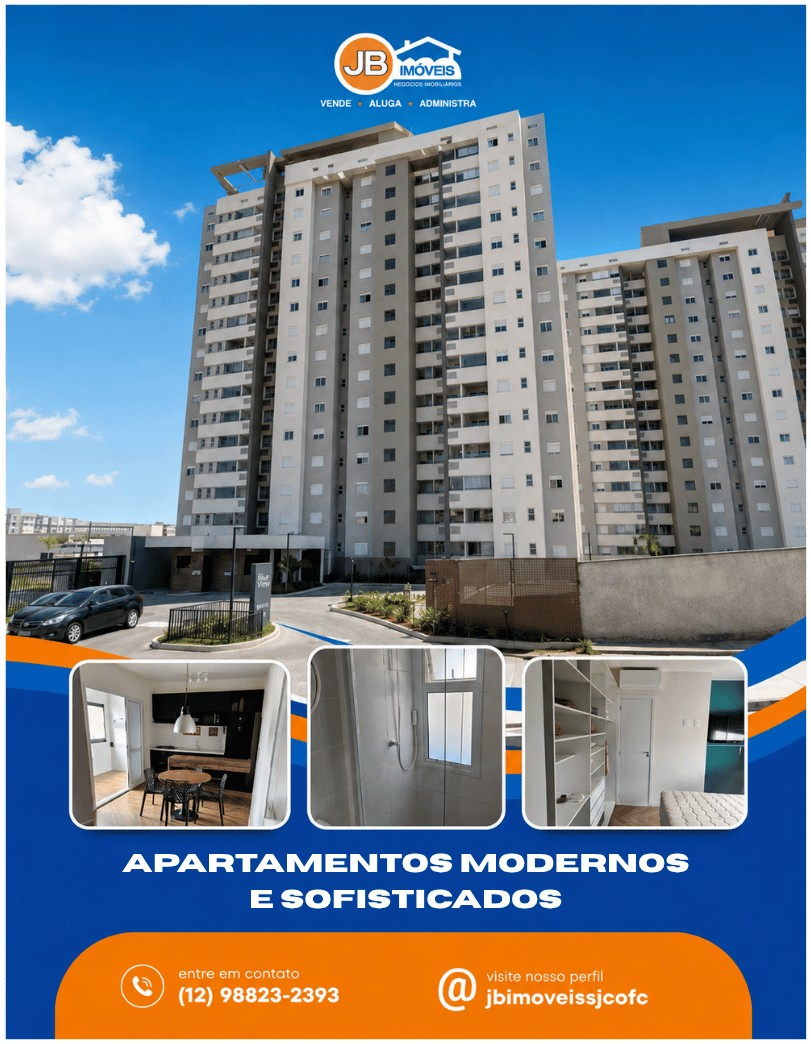
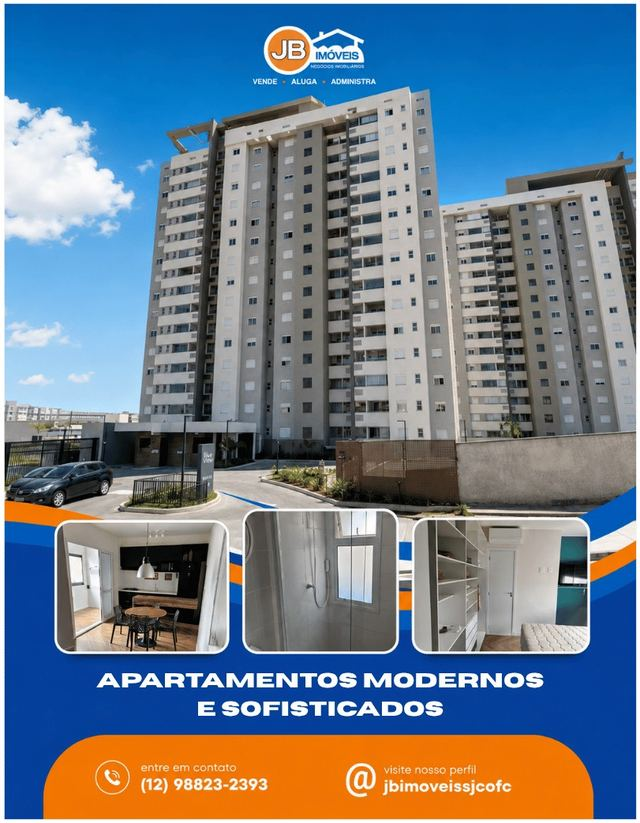
Troca animação das fotos de categoria: desliza lateral, sem colapsar
Antes a troca de foto fazia um efeito de fechar (altura pra 0) e
abrir de novo. Agora a foto nova desliza da esquerda ou direita
dependendo da posição do botão clicado, crossfade suave, sem colapso.
Também comprime as 3 fotos (redimensiona pra 640px + qualidade 78),
caindo de ~220-270KB pra ~87-113KB cada.

diff --git a/src/components/Categories.jsx b/src/components/Categories.jsx
@@ -21,7 +21,16 @@ const checkIcon = (
 
 export default function Categories() {
   const [selected, setSelected] = useState('casa')
+  const [direction, setDirection] = useState(1)
   const active = categories.find((c) => c.id === selected)
+
+  function handleSelect(id) {
+    if (id === selected) return
+    const from = categories.findIndex((c) => c.id === selected)
+    const to = categories.findIndex((c) => c.id === id)
+    setDirection(to > from ? 1 : -1)
+    setSelected(id)
+  }
 
   return (
     <section className="mx-auto max-w-3xl px-4 pb-4 pt-2">
@@ -31,7 +40,7 @@ export default function Categories() {
           return (
             <button
               key={c.id}
-              onClick={() => setSelected(c.id)}
+              onClick={() => handleSelect(c.id)}
               className="flex flex-col items-center gap-2"
             >
               <motion.div
@@ -74,27 +83,24 @@ export default function Categories() {
         })}
       </div>
 
-      <AnimatePresence mode="wait">
-        {active?.photo && (
-          <motion.div
-            key={active.id}
-            initial={{ opacity: 0, height: 0 }}
-            animate={{ opacity: 1, height: 'auto' }}
-            exit={{ opacity: 0, height: 0 }}
-            transition={{ duration: 0.4, ease: [0.16, 1, 0.3, 1] }}
-            className="overflow-hidden"
-          >
-            <div className="relative mx-auto mt-6 max-w-xs overflow-hidden rounded-3xl border border-neutral-200 bg-white shadow-lg">
-              <img
-                src={active.photo}
-                alt={active.label}
-                className="w-full select-none object-contain"
-                draggable={false}
-              />
-            </div>
-          </motion.div>
-        )}
-      </AnimatePresence>
+      {active?.photo && (
+        <div className="relative mx-auto mt-6 max-w-xs overflow-hidden rounded-3xl border border-neutral-200 bg-white shadow-lg">
+          <AnimatePresence initial={false} custom={direction} mode="popLayout">
+            <motion.img
+              key={active.id}
+              src={active.photo}
+              alt={active.label}
+              custom={direction}
+              initial={{ x: direction > 0 ? 80 : -80, opacity: 0 }}
+              animate={{ x: 0, opacity: 1 }}
+              exit={{ x: direction > 0 ? -80 : 80, opacity: 0 }}
+              transition={{ duration: 0.35, ease: [0.16, 1, 0.3, 1] }}
+              className="w-full select-none object-contain"
+              draggable={false}
+            />
+          </AnimatePresence>
+        </div>
+      )}
     </section>
   )
 }
